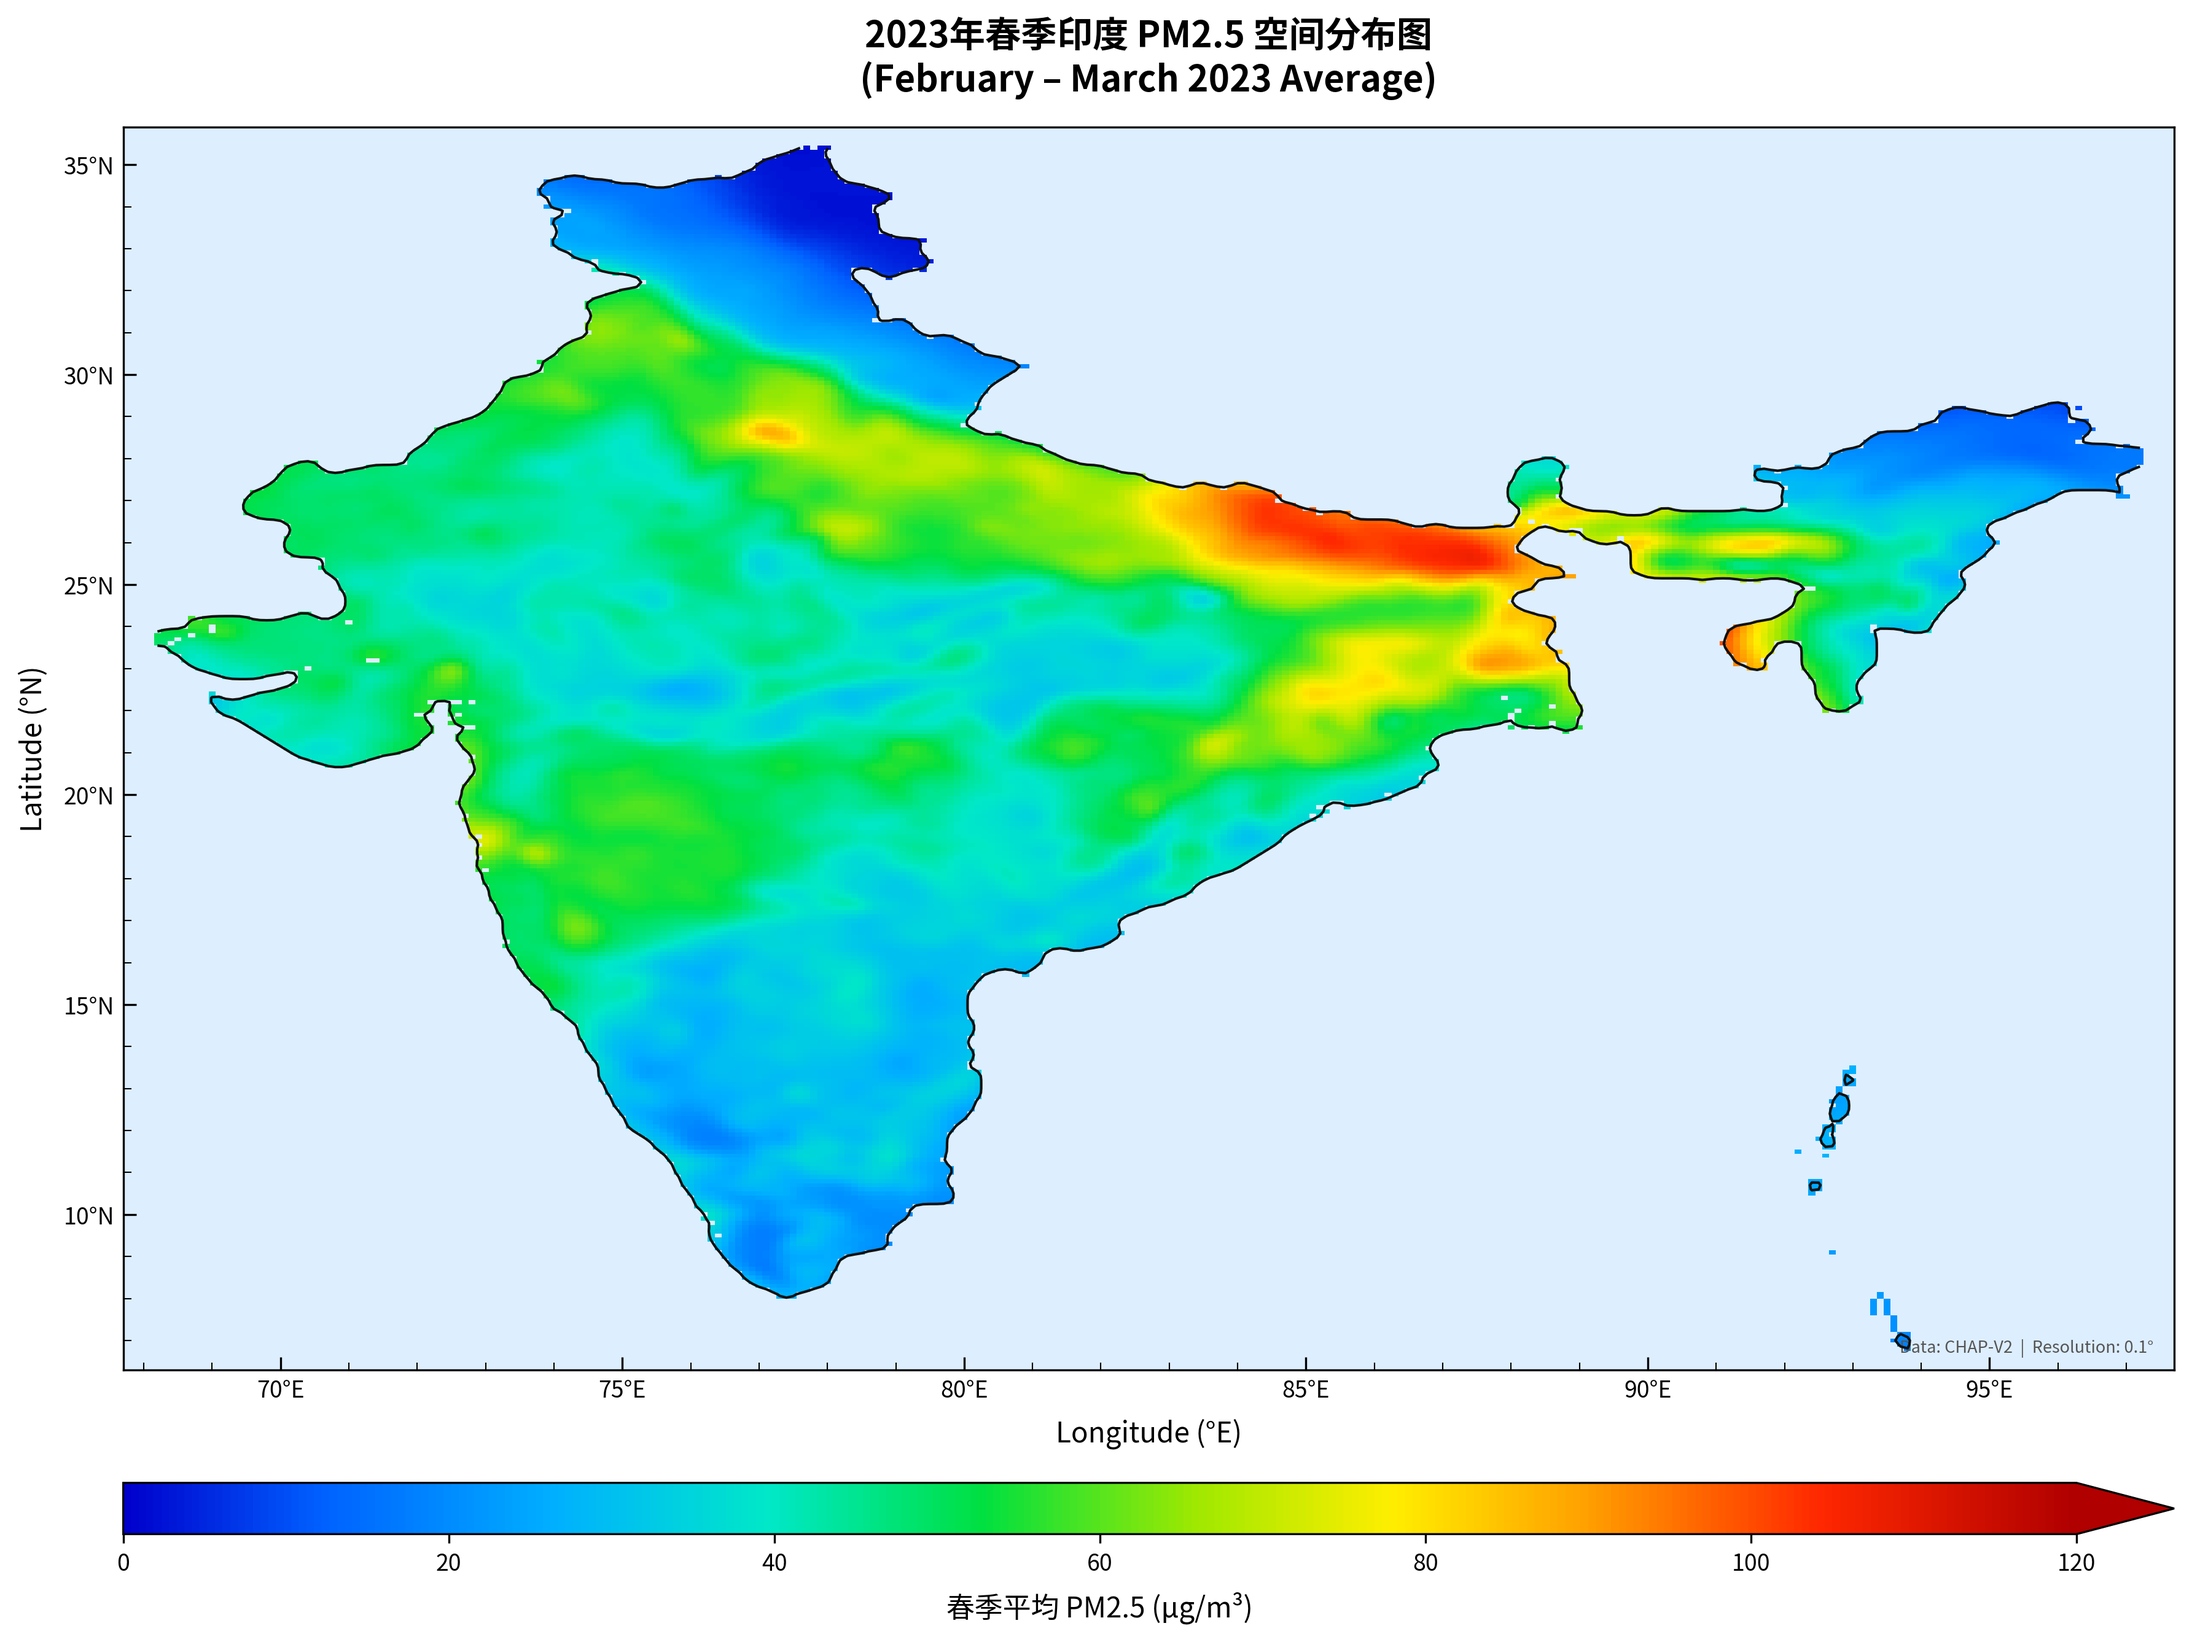
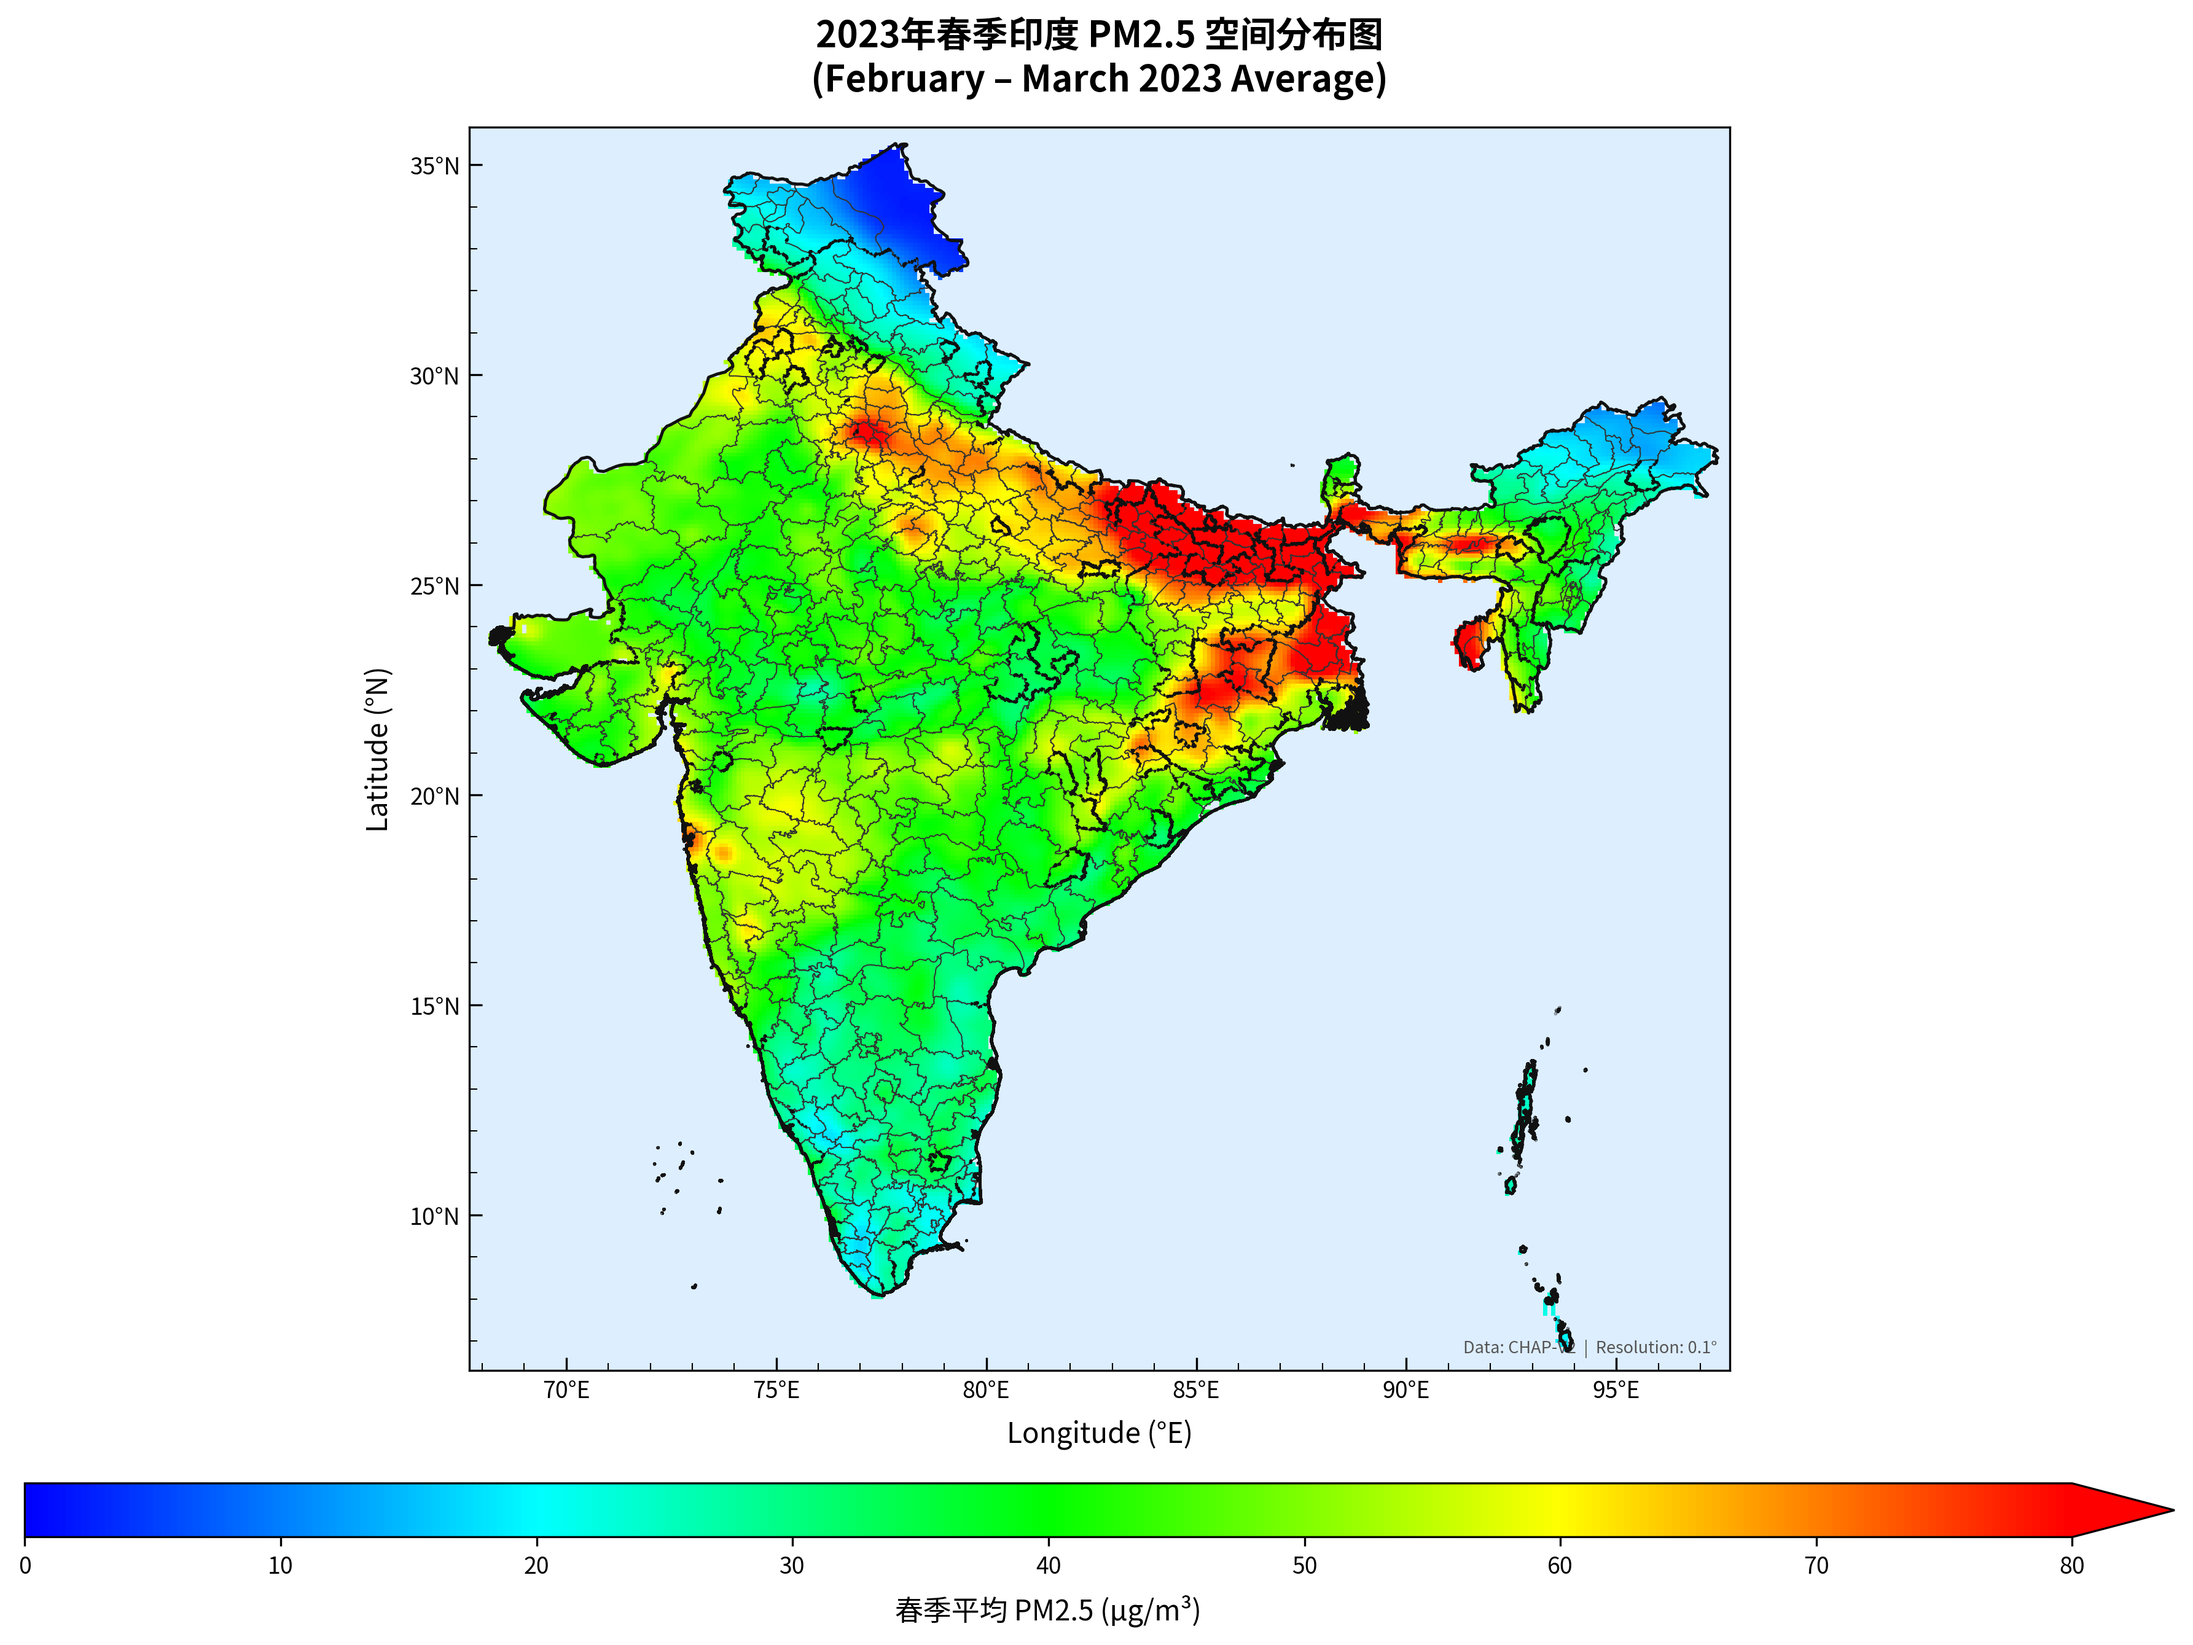
Add India district boundaries and match China reference colormap exactly
Agent-Logs-Url: https://github.com/hhhhccccc/pm25-india-visualization/sessions/d480c78f-eb18-43c6-b52c-77ce857ddf15

diff --git a/plot_pm25.py b/plot_pm25.py
@@ -11,6 +11,8 @@ Output: pm25_india_feb_mar_2023.png
 
 import os
 import warnings
+import colorsys
+import urllib.request
 
 import numpy as np
 import matplotlib
@@ -115,50 +117,62 @@ pm25_smooth = gaussian_filter(pm25_interp, sigma=1.5)
 pm25_plot = np.where(land_mask, pm25_smooth, np.nan)
 
 # ---------------------------------------------------------------------------
-# 3. Smooth rainbow colour map  blue → cyan → green → yellow → orange → red
-#    (matches reference China PM2.5 style – fully continuous, no hard steps)
+# 3. Colour map – exact HSV rainbow blue → cyan → green → yellow → orange → red
+#    Matches the China reference PM2.5 map colour bar (hue 240° → 0°)
 # ---------------------------------------------------------------------------
-VMIN, VMAX = 0, 120   # μg/m³ – covers the India Feb–Mar data range
+VMIN, VMAX = 0, 80   # μg/m³ – same axis range as the reference China map
 
-# Control points sampled from the reference map palette
-_cmap_colors = [
-    (0.00, "#0000cc"),   # deep blue  (lowest)
-    (0.10, "#0060ff"),   # blue
-    (0.22, "#00b0ff"),   # sky-blue
-    (0.33, "#00e8c8"),   # cyan-teal
-    (0.44, "#00e040"),   # green
-    (0.55, "#a0e800"),   # yellow-green
-    (0.65, "#ffee00"),   # yellow
-    (0.75, "#ffa000"),   # orange
-    (0.87, "#ff2800"),   # red-orange
-    (1.00, "#b00000"),   # dark red   (highest)
-]
-cmap = mcolors.LinearSegmentedColormap.from_list(
-    "pm25_rainbow", _cmap_colors
-)
+# Build continuous rainbow from hue=240° (blue) to hue=0° (red) in HSV space
+_n = 256
+_hues = np.linspace(240 / 360, 0 / 360, _n)
+_rgb = [colorsys.hsv_to_rgb(h, 1.0, 1.0) for h in _hues]
+cmap = mcolors.LinearSegmentedColormap.from_list("china_pm25_rainbow", _rgb)
 norm = mcolors.Normalize(vmin=VMIN, vmax=VMAX)
 
 # ---------------------------------------------------------------------------
-# 4. Load district boundaries (GeoJSON) – graceful fallback
+# 4. Load district boundaries (GeoJSON) – download from public source if local
+#    file is a placeholder (< 10 kB); cache to /tmp to avoid repeated downloads
 # ---------------------------------------------------------------------------
+# Public source: GADM-based India district polygons (594 districts, WGS-84)
+_DISTRICT_URL   = ("https://raw.githubusercontent.com/geohacker/india/"
+                   "master/district/india_district.geojson")
+_DISTRICT_CACHE = "/tmp/india_districts_cache.geojson"
+
 india_gdf   = None
 use_geojson = False
 
-if os.path.isfile(GEOJSON):
-    try:
-        # Check if it is a real GeoJSON (not a placeholder)
-        with open(GEOJSON, "r", encoding="utf-8") as fh:
-            first_chars = fh.read(20).strip()
-        if first_chars.startswith("{") or first_chars.startswith("["):
-            india_gdf = gpd.read_file(GEOJSON)
-            use_geojson = True
-            print(f"Loaded GeoJSON: {len(india_gdf)} districts, CRS={india_gdf.crs}")
-        else:
-            print("GeoJSON file appears to be a placeholder – using data-derived boundary.")
-    except Exception as exc:
-        print(f"Could not read GeoJSON ({exc}) – using data-derived boundary.")
+def _is_real_geojson(path):
+    """Return True only if the file looks like a real GeoJSON (≥ 10 kB, starts with '{')."""
+    if not os.path.isfile(path):
+        return False
+    if os.path.getsize(path) < 10_000:
+        return False
+    with open(path, "r", encoding="utf-8", errors="replace") as fh:
+        return fh.read(20).strip().startswith("{")
+
+# Determine which path to use
+_geojson_path = None
+if _is_real_geojson(GEOJSON):
+    _geojson_path = GEOJSON
+elif _is_real_geojson(_DISTRICT_CACHE):
+    print("Using cached district GeoJSON.")
+    _geojson_path = _DISTRICT_CACHE
 else:
-    print("GeoJSON not found – using data-derived boundary.")
+    print("Downloading India district boundaries …")
+    try:
+        urllib.request.urlretrieve(_DISTRICT_URL, _DISTRICT_CACHE)
+        print(f"  Saved to {_DISTRICT_CACHE}")
+        _geojson_path = _DISTRICT_CACHE
+    except Exception as exc:
+        print(f"  Download failed ({exc}) – will use data-derived boundary.")
+
+if _geojson_path:
+    try:
+        india_gdf = gpd.read_file(_geojson_path)
+        use_geojson = True
+        print(f"Loaded district GeoJSON: {len(india_gdf)} districts, CRS={india_gdf.crs}")
+    except Exception as exc:
+        print(f"Could not read district GeoJSON ({exc}) – using data-derived boundary.")
 
 # ---------------------------------------------------------------------------
 # 5. Plot
@@ -247,8 +261,8 @@ cbar = fig.colorbar(
 )
 cbar.set_label("春季平均 PM2.5 (μg/m³)", fontsize=11, labelpad=6)
 cbar.ax.tick_params(labelsize=9)
-# Evenly spaced ticks across the full range
-cbar_ticks = list(range(0, VMAX + 1, 20))
+# Ticks at 0, 10, 20, … 80 – exactly as in the reference China map
+cbar_ticks = list(range(0, VMAX + 1, 10))
 cbar.set_ticks(cbar_ticks)
 cbar.ax.set_xticklabels([str(v) for v in cbar_ticks])
 
